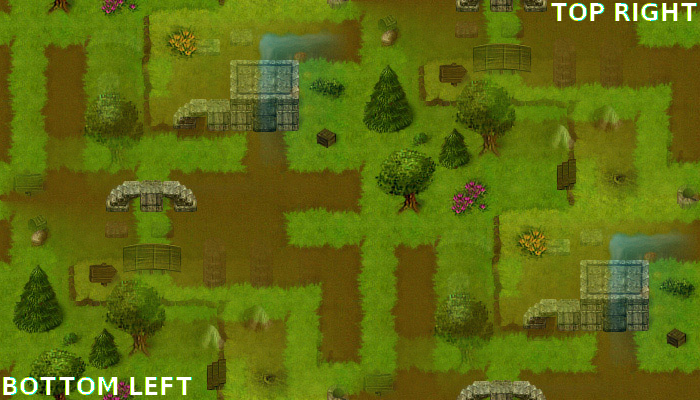
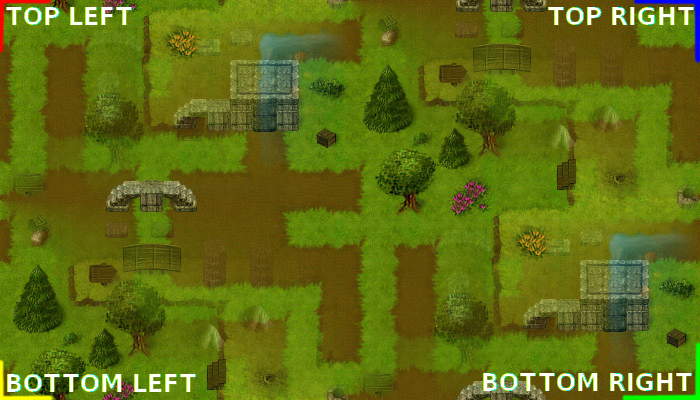
Added z-indexed trees Other graphical improvements

diff --git a/main.js b/main.js
@@ -114,10 +114,21 @@ class Test {
 		document.body.appendChild(this.app.view)
 
 		// Create sprites from loaded textures
-		this.bunny = new PIXI.Sprite(resources.bunny.texture)
-		this.background = new PIXI.Sprite(resources.background.texture)
-		this.wall = new PIXI.Sprite(resources.wall.texture)
-		this.package = new PIXI.Sprite(resources.package.texture)
+		let bunny = new PIXI.Sprite(resources.bunny.texture)
+		let background = new PIXI.Sprite(resources.background.texture)
+		let packageSprite = new PIXI.Sprite(resources.package.texture)
+		packageSprite.x = 200
+		packageSprite.y = 40
+
+		// Generate trees
+		let baseTree = new PIXI.Sprite(resources.tree.texture)
+		baseTree.zIndex = 10
+		for (let i = 0; i < 6; ++i) {
+			let tree = dupe(baseTree)
+			tree.x = (i % 3) * 100 + 300 + (i % 2) * 40
+			tree.y = (i % 2) * 100 + 160 - (i % 3) * 40
+			this.stage.addChild(tree)
+		}
 
 		let circle = new PIXI.Graphics()
 			.lineStyle(4, 0xFF0000)
@@ -125,20 +136,16 @@ class Test {
 		circle.zIndex = 20
 
 		// Setup bunny sprite
-		this.bunny.anchor.set(0.5)
-		this.bunny.x = 128
-		this.bunny.y = 128
-		this.bunny.zIndex = 5
+		bunny.anchor.set(0.5)
+		bunny.x = 128
+		bunny.y = 128
+		bunny.zIndex = 5
 
-		this.stage.addChild(this.background)
-		this.stage.addChild(this.wall)
-		this.stage.addChild(this.package)
-		this.stage.addChild(this.bunny)
+		this.stage.addChild(background)
+		this.stage.addChild(packageSprite)
+		this.stage.addChild(bunny)
 
 		this.wrapper = new RenderWrap(this.stage.buckets, this.app)
-
-		this.wall.x = this.wrapper.offset.x - this.wall.width
-		this.wall.y = this.wrapper.offset.y - this.wall.height
 
 		let target = {x: 0, y: 0}
 		let ratio = 0
@@ -163,10 +170,10 @@ class Test {
 		// Listen for animate update
 		this.app.ticker.add(delta => {
 			// Move bunny sprite
-			this.bunny.x += this.move.x * speed * dt
-			this.bunny.y += this.move.y * speed * dt
-			const old = {x: this.bunny.x, y: this.bunny.y}
-			this.wrapper.wrap(this.bunny)
+			bunny.x += this.move.x * speed * dt
+			bunny.y += this.move.y * speed * dt
+			const old = {x: bunny.x, y: bunny.y}
+			this.wrapper.wrap(bunny)
 
 			// Handle zooming
 			if (zooming !== 0) {
@@ -175,12 +182,12 @@ class Test {
 
 			// Center camera
 			const newTarget = {
-				x: -this.bunny.x * this.wrapper.scale + (this.app.renderer.width / 2),
-				y: -this.bunny.y * this.wrapper.scale + (this.app.renderer.height / 2)
+				x: -bunny.x * this.wrapper.scale + (this.app.renderer.width / 2),
+				y: -bunny.y * this.wrapper.scale + (this.app.renderer.height / 2)
 			}
 			const begin = {
-				x: (old.x === this.bunny.x ? this.app.stage.x : this.app.stage.x + ((old.x - this.bunny.x) * this.wrapper.scale)),
-				y: (old.y === this.bunny.y ? this.app.stage.y : this.app.stage.y + ((old.y - this.bunny.y) * this.wrapper.scale))
+				x: (old.x === bunny.x ? this.app.stage.x : this.app.stage.x + ((old.x - bunny.x) * this.wrapper.scale)),
+				y: (old.y === bunny.y ? this.app.stage.y : this.app.stage.y + ((old.y - bunny.y) * this.wrapper.scale))
 			}
 
 			if (fastCamera) {
@@ -212,8 +219,8 @@ class Test {
 			this.wrapper.update()
 
 			// Add center circle shape
-			circle.x = this.bunny.x
-			circle.y = this.bunny.y
+			circle.x = bunny.x
+			circle.y = bunny.y
 			this.app.stage.addChild(circle)
 		});
 	}
@@ -236,7 +243,7 @@ window.onload = function() {
 
 	loader.add('bunny', './bunny.png')
 		.add('background', './background.png')
-		.add('wall', './wall.png')
+		.add('tree', './tree.png')
 		.add('package', './package.png')
 
 	loader.load((loader, resources) => {
